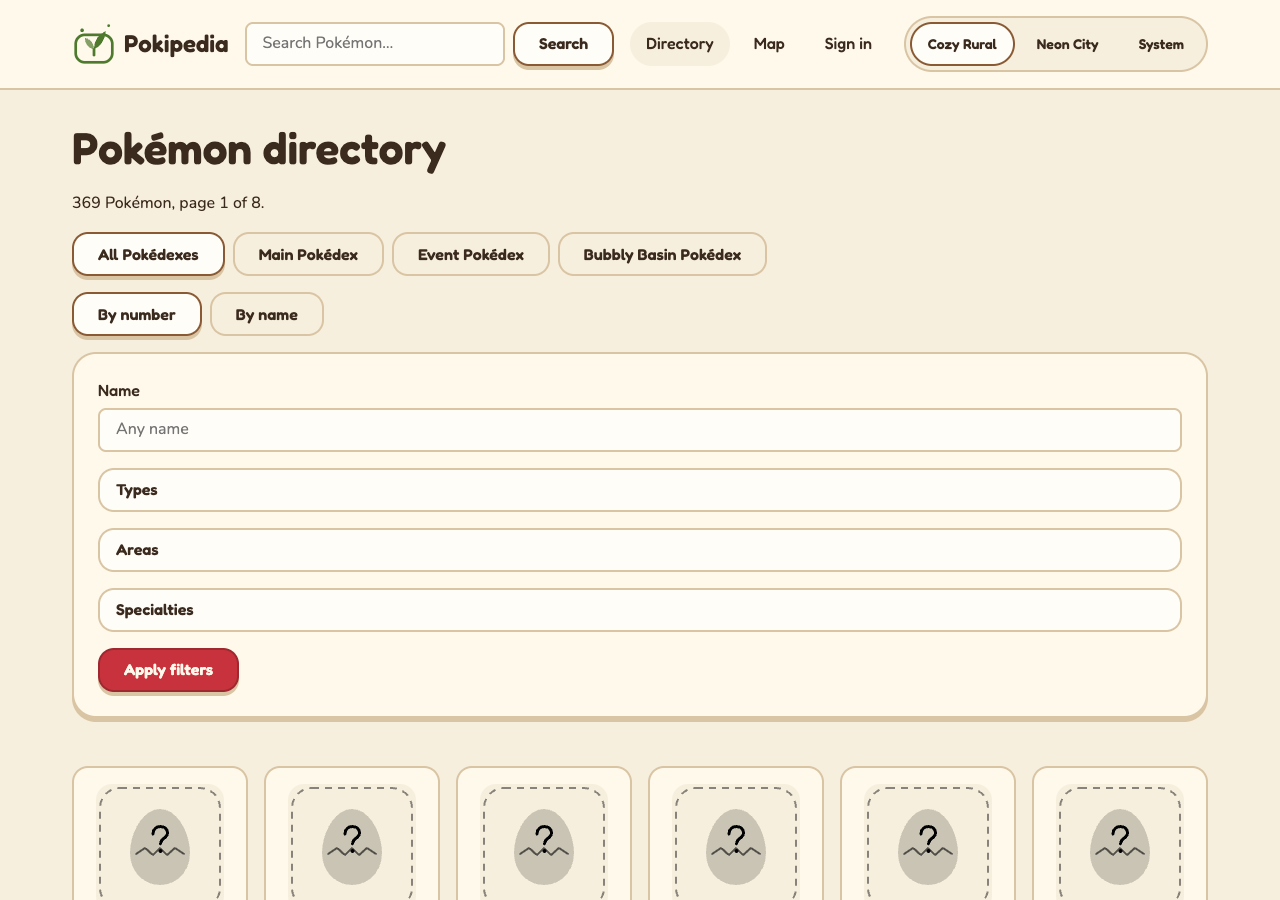
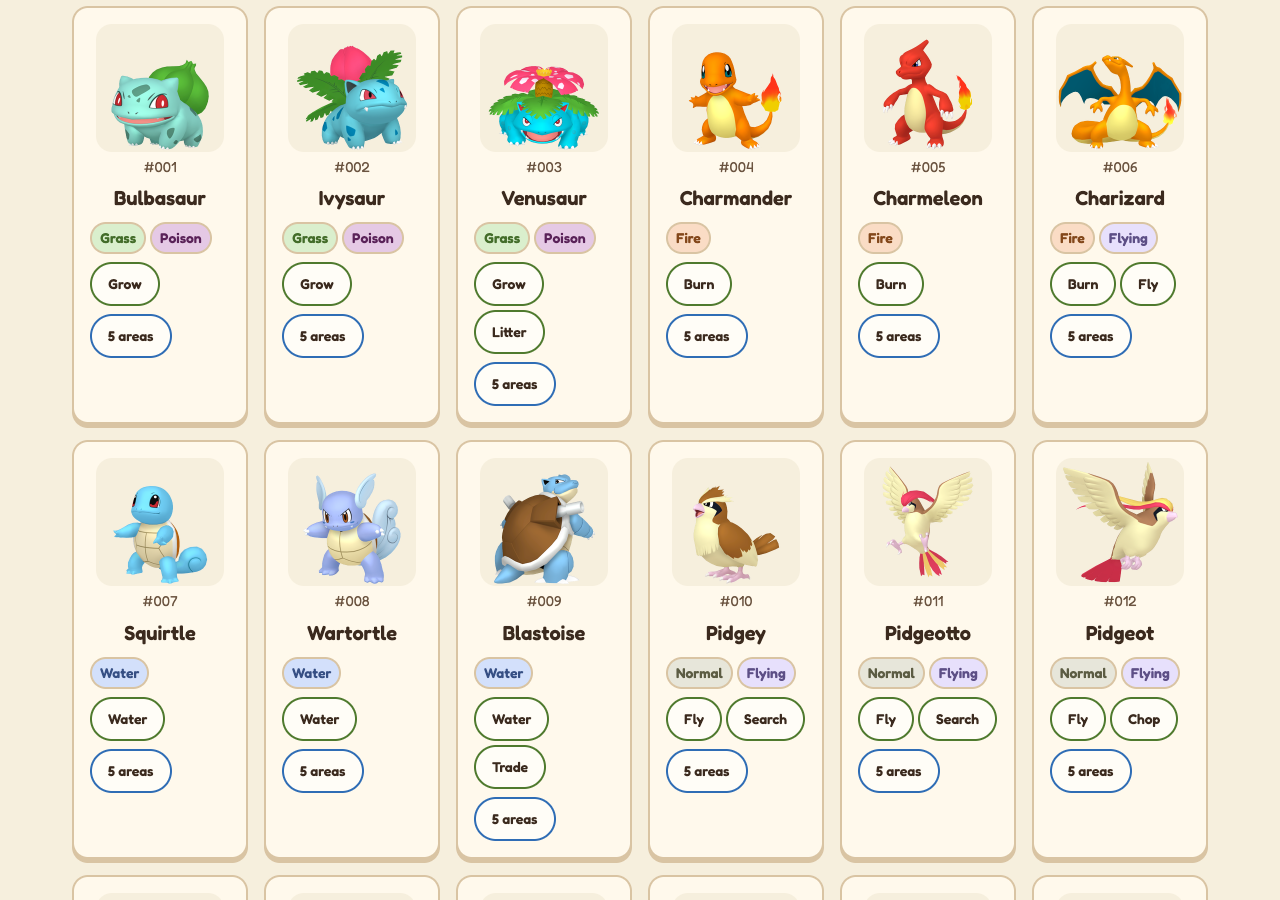
Use Pokipedia screenshots with the real artwork
Replace the placeholder directory shot and add a Pikachu profile page
and the Tall Grass habitat page.

Claude-Session: https://claude.ai/code/session_01TNffZcSV4wb7LDQ8zWqLhf

Changed region(s): [[0.0312, 0.0, 0.9688, 0.9956], [0.625, 0.2178, 0.7812, 0.4044]]

diff --git a/_posts/2026-10-28-building-pokipedia-with-spec-kit.md b/_posts/2026-10-28-building-pokipedia-with-spec-kit.md
@@ -10,8 +10,8 @@ My earlier posts in this series were about a long-running project, with a board,
 
 Pokipedia is a searchable directory of every Pokémon in Pokopia. It has profile pages with their in-game details and where to find them, an interactive map, and accounts for tracking the Pokémon you've discovered. It's built with [Loco](https://loco.rs), a Rails-like framework for Rust, with server-rendered templates and PostgreSQL. Every page works without JavaScript, and it ships as a single Docker container.
 
-![The Pokipedia directory page in the light "Cozy Rural" theme](/assets/img/posts/pokipedia/directory.png)
-*The directory in the light "Cozy Rural" theme. The eggs are placeholders until the artwork is downloaded.*
+![The Pokipedia directory: tiles for Bulbasaur through Pidgeot, each with its types, specialties and number of areas](/assets/img/posts/pokipedia/directory.png)
+*The directory in the light "Cozy Rural" theme. Each tile shows the Pokémon's types, its specialties and how many areas it appears in.*
 
 ## Spec Kit in one paragraph
 
@@ -52,6 +52,9 @@ feat: discovery tracking with live progress bars (US6)
 
 The pull request was merged at 9:13 that night. That's not because the agent is fast at typing. It's because every decision had been made in the documents first, so implementation was mostly executing a plan that had already been checked.
 
+![Pikachu's profile page: its art, Pokopia stats, specialties, favorite things, and where to find it](/assets/img/posts/pokipedia/profile.png)
+*A profile page from user story 2. "Where to find" lists the habitat that attracts it, with the areas, rarity, time of day and weather.*
+
 ![The Pokopia map: rounded areas like Palette Town, Rocky Ridges and Bubbly Basin, with a list of areas beside it](/assets/img/posts/pokipedia/map.png)
 *The interactive map from user story 4. Picking an area shows which Pokémon can appear there and what attracts them.*
 
@@ -77,6 +80,9 @@ So the site draws its own. Each habitat gets an original illustration, rendered 
 
 ![The Habitat Dex with a small scene illustration next to each habitat](/assets/img/posts/pokipedia/habitat-dex.png)
 *The Habitat Dex. Each thumbnail is drawn from that habitat's build list: tall grass alone, then tall grass with a tree.*
+
+![The Tall Grass habitat page: a drawn scene of grass on a hill, the build list, and the Pokémon that show up](/assets/img/posts/pokipedia/habitat.png)
+*A habitat page. The scene at the top is drawn by the site from "Tall Grass ×4". The Pokémon below it are the ones that habitat attracts.*
 
 Before writing the spec, there was a research round, and the numbers mattered. The obvious approach, one picture per main item, gave only **145 distinct scenes for 254 habitats**, with up to 12 habitats sharing the same picture. The final design, a terrain plus the *rarest* item as the main subject plus supporting items and modifiers, gave **253 distinct scenes out of 254**.
 
